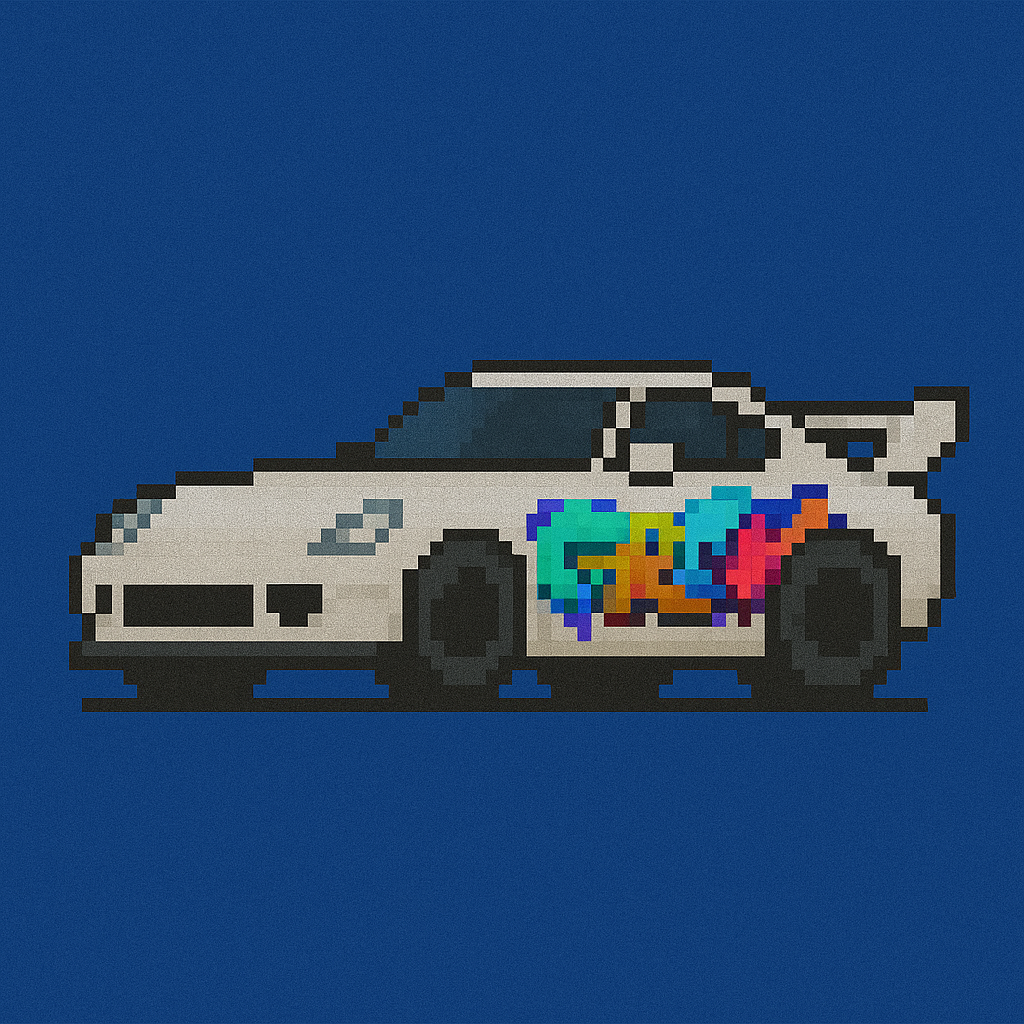
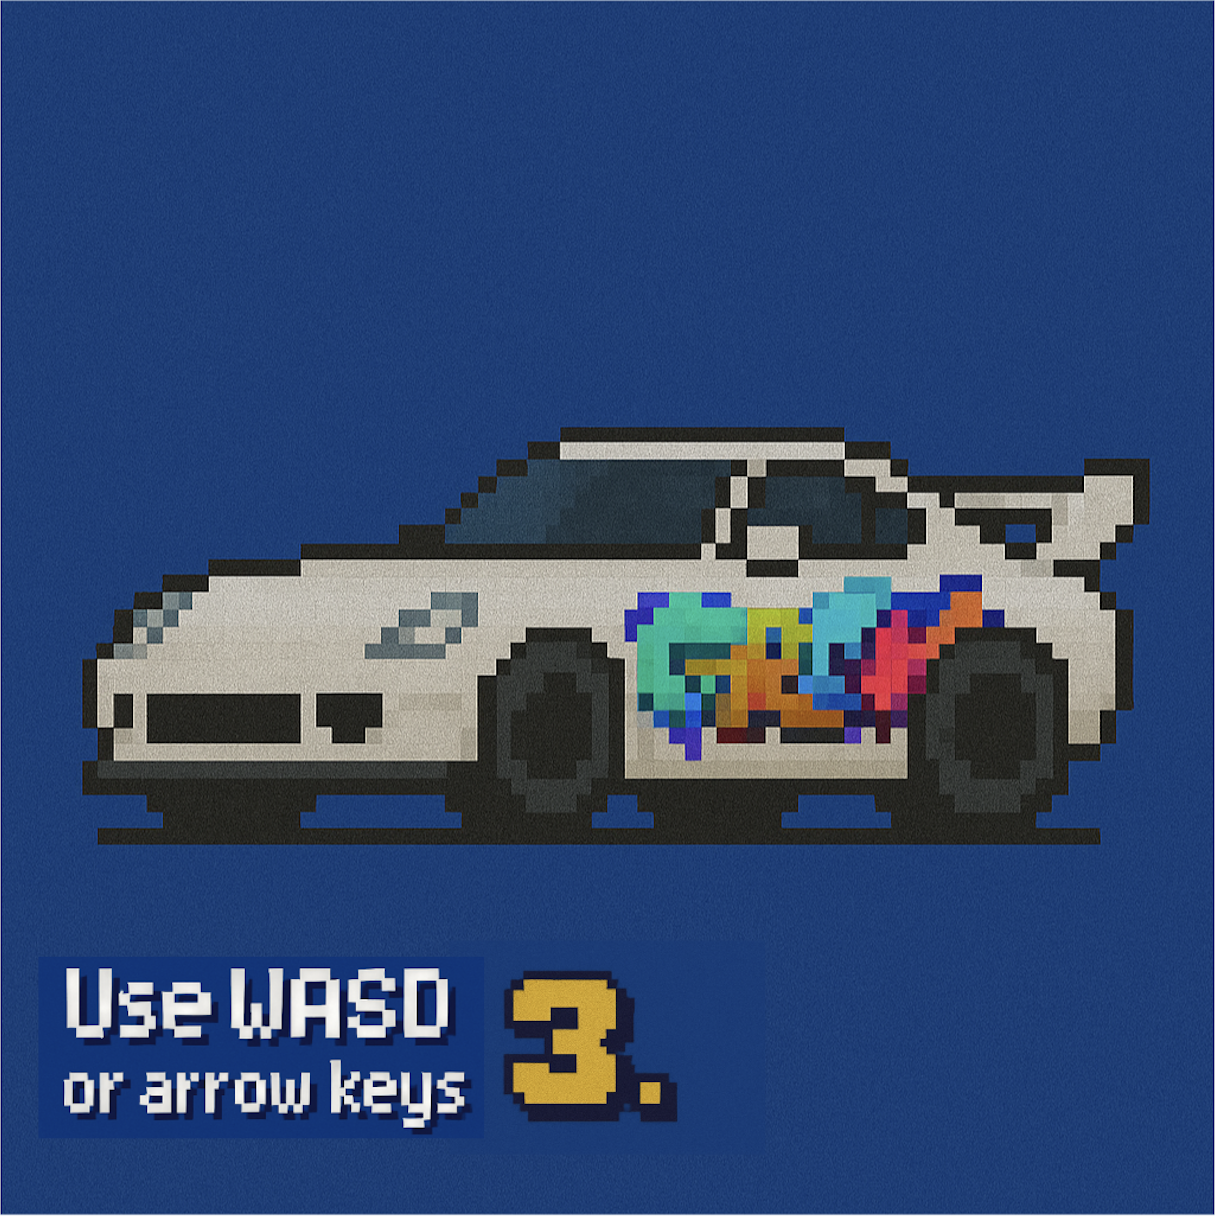
added text instructions

diff --git a/TODO.md b/TODO.md
@@ -1,4 +1,4 @@
 TODO:
     Set up clickable link functionality (Github Pages?)
     Remove the scroll (make fit to screen)
-    
+    Add fullscreen mode
